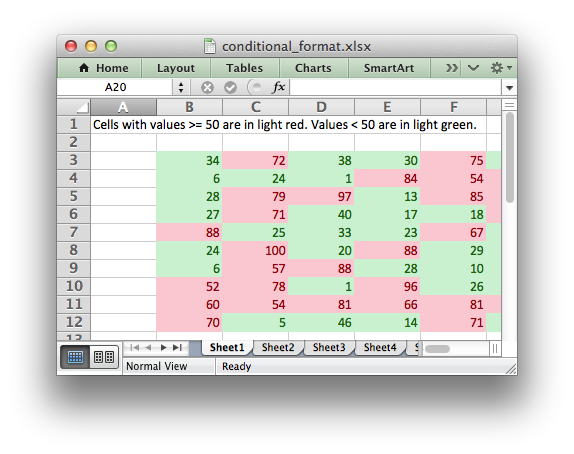
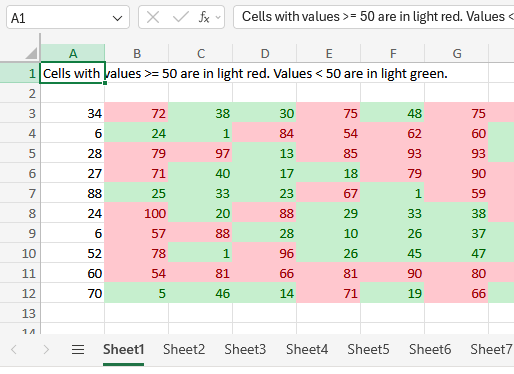
-

diff --git a/docs/customdoxygen.css b/docs/customdoxygen.css
@@ -531,6 +531,11 @@ div.center {
     padding: 0px;
 }
 
+img {
+	border: 1px solid lightgray;
+	border-radius: 8px;
+}
+
 div.center img {
     border: 0px;
 }

diff --git a/include/xwpp/worksheet.h b/include/xwpp/worksheet.h
@@ -4140,12 +4140,6 @@ public:
    *
    * @image html autofilter2.png
    *
-   * @code
-   *  std::vector<std::string> list{"March", "April", "May", "Blanks"};
-   *
-   *  worksheet.filter_list(0, list);
-   * @endcode
-   *
    * It isn't sufficient to just specify the filter condition. You must also
    * hide any rows that don't match the filter condition.
    *
@@ -4542,7 +4536,8 @@ public:
    * string that looks like a number:
    *
    * @code
-   *  worksheet.write("D2", "123");
+   *  worksheet.write("C3", "123");
+   *  worksheet.ignore_errors(xwpp::ignore_errors_t::NUMBER_STORED_AS_TEXT, "C3");
    * @endcode
    *
    * This causes Excel to display a small green triangle in the top left hand

diff --git a/examples/conditional_format2.cpp b/examples/conditional_format2.cpp
@@ -38,7 +38,7 @@ void write_worksheet_data(xwpp::worksheet_t& worksheet)
   {
     for(xwpp::col_num_t col_num{0}; const auto value: row)
     {
-      worksheet.write(row_num, col_num, value);
+      worksheet.write(row_num + 2, col_num, value);
       col_num++;
     }
     row_num++;
